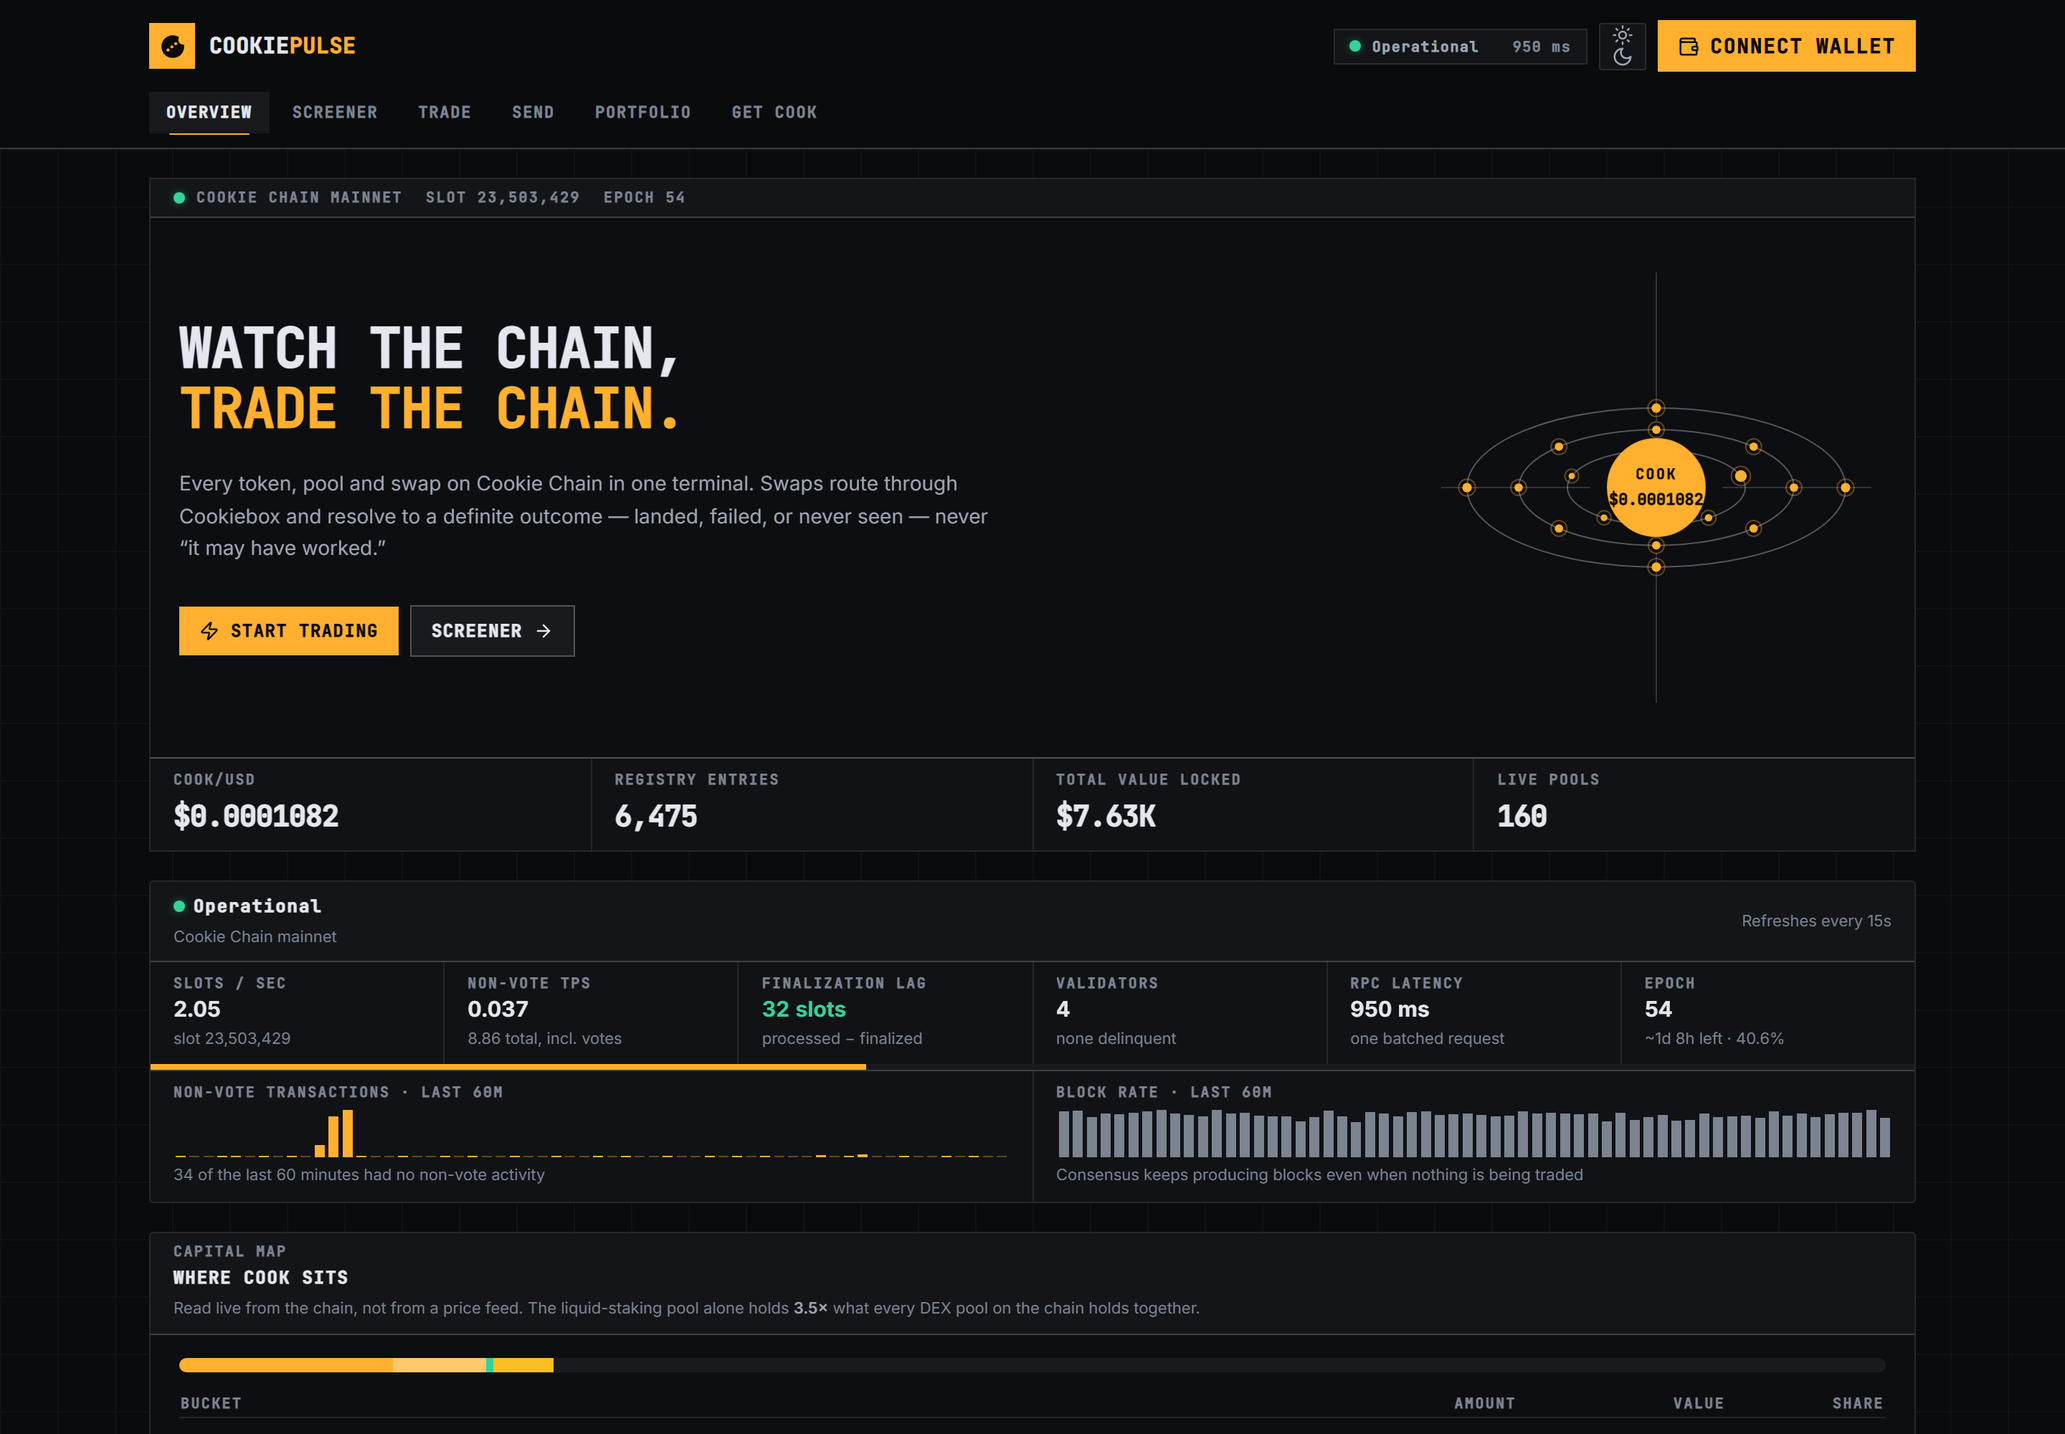
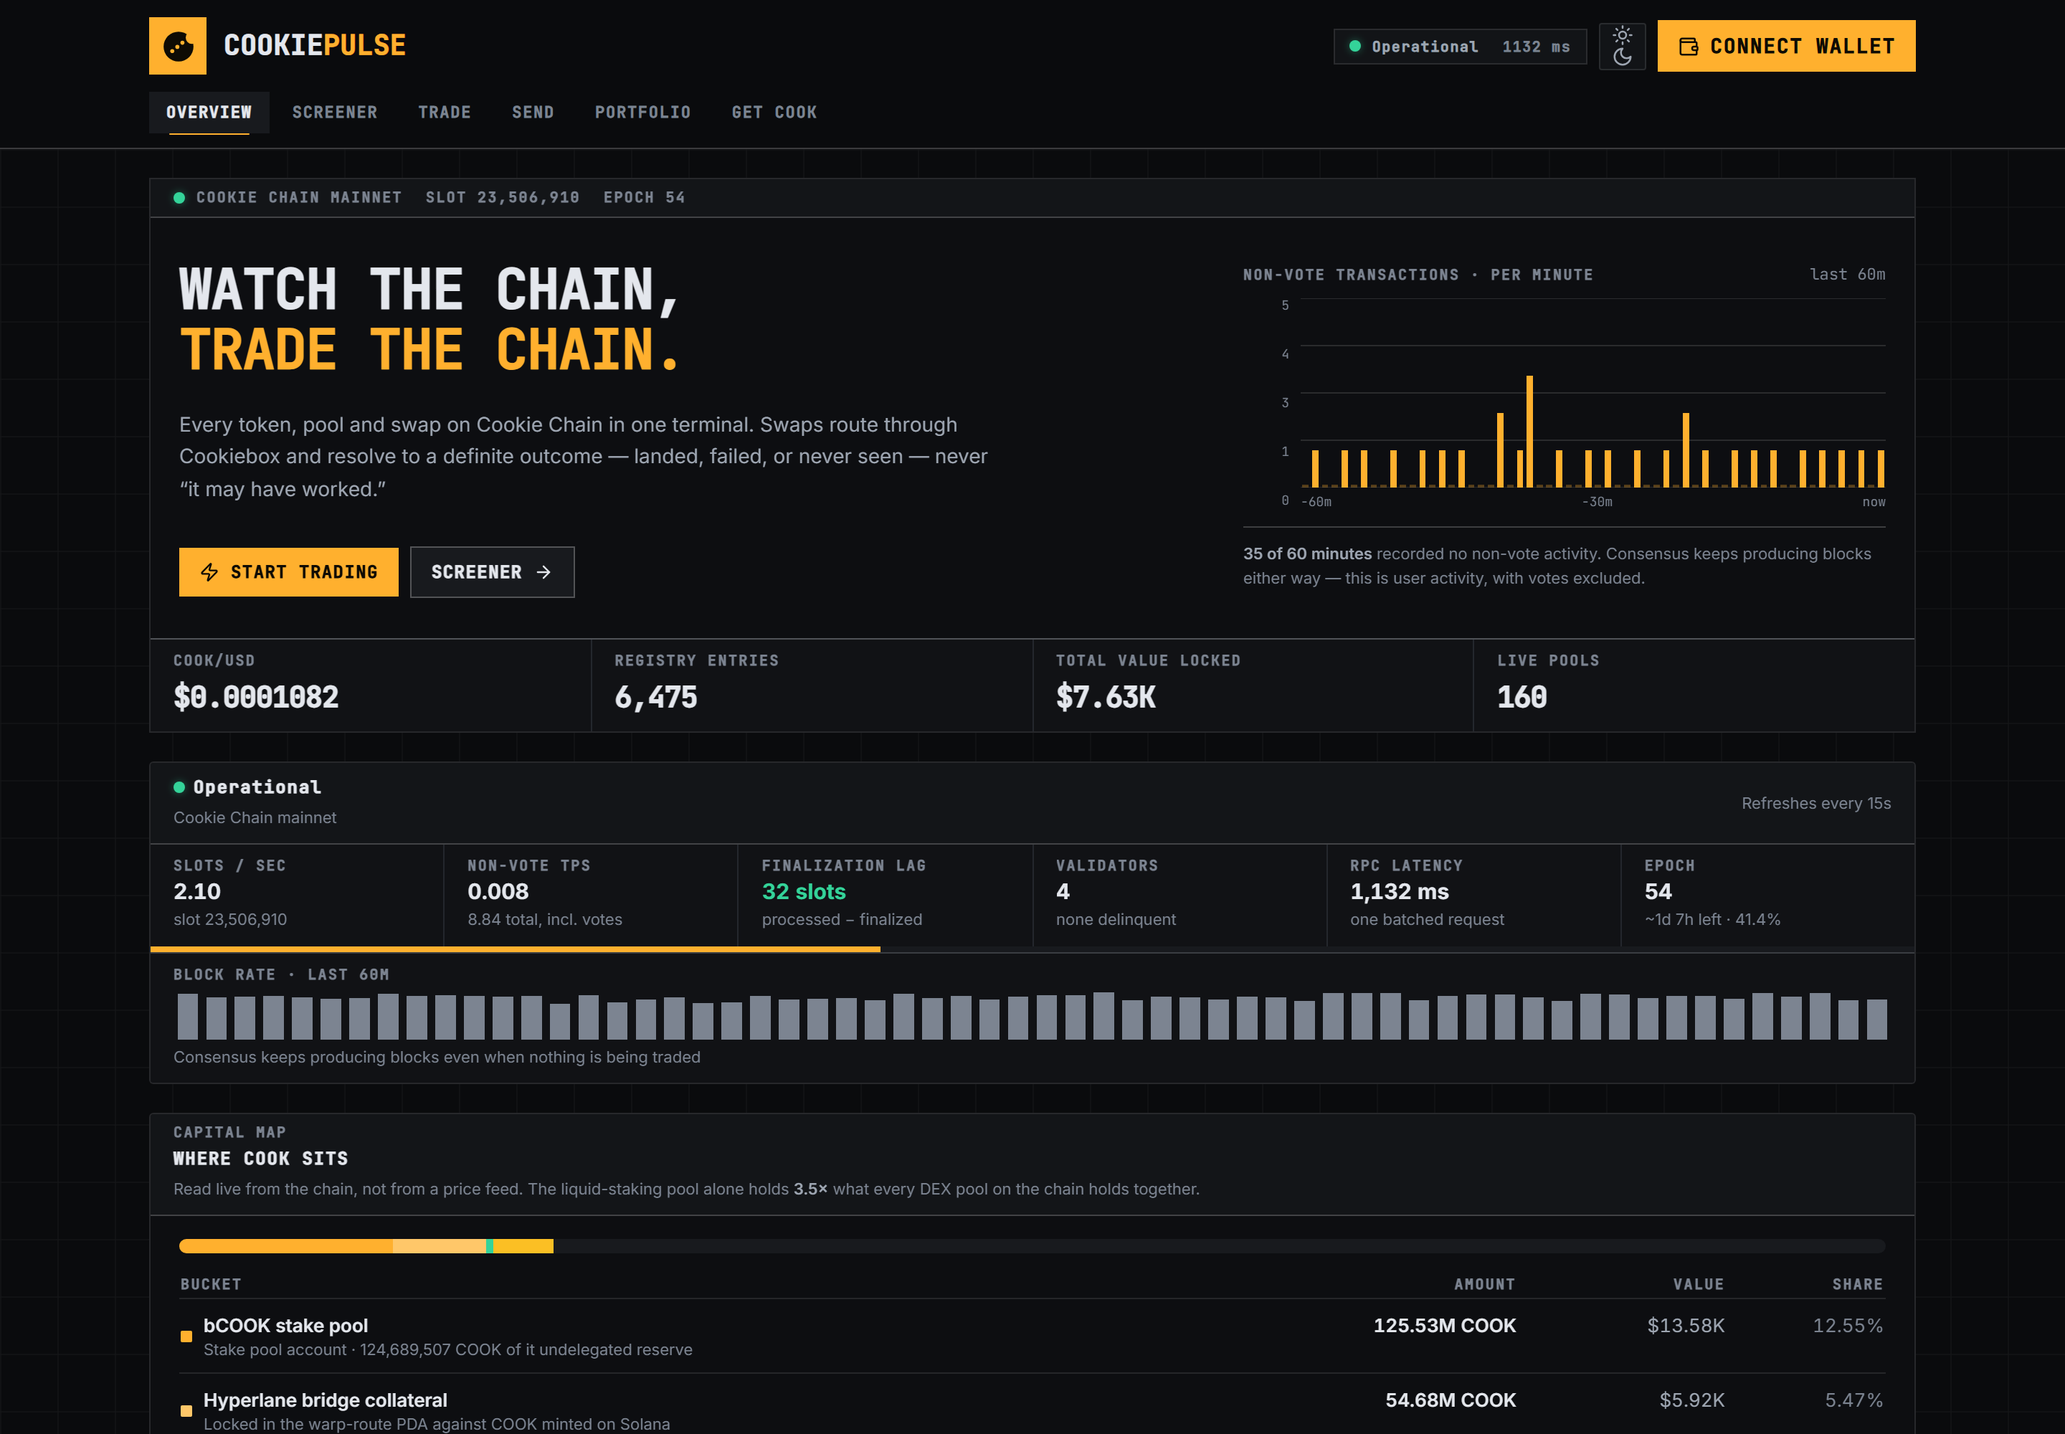
Replace the orbit with a real chart, and enlarge the mark
The orbit was the last element on the page that was drawn rather than
measured, which made it the weakest thing on a screen where everything else
is a reading.

The intent was a price chart. Cookiescan has no price history: its price
endpoint returns a single point and a change24h of 0, the markets feed
carries no time series, and every guessed path — /api/price/cook/history,
/api/candles, /api/ohlc — returns the site's HTML shell with a 200, which is
a catch-all and not data. I checked the bodies rather than the status codes,
because the status codes say 200 for a path I invented on the spot. Drawing
a price line would have meant inventing the series, so there is no price
line.

What is real is non-vote transactions per minute over the last hour, from
getRecentPerformanceSamples on the batched health request the strip already
makes. It was a 34px sparkline three screens down. As a full chart with a Y
axis, a time axis, gridlines and a pointer crosshair, it states the most
interesting true thing this app knows — the chain is almost entirely idle —
and states it where a judge lands, with axes they can check.

Three rules it holds to: a zero minute draws a baseline tick rather than
nothing (36 of 60 are exactly zero, and a chart that omits them looks
broken); nothing keys off isFetching, so the 15s poll never re-animates it;
and the crosshair is local state that triggers no fetch.

Axis labels are real text outside the stretched viewBox — the reason the
[…]

diff --git a/src/components/overview/ActivityChart.tsx b/src/components/overview/ActivityChart.tsx
@@ -1,0 +1,199 @@
+'use client';
+
+// The masthead chart.
+//
+// This replaced a decorative orbit diagram, which was the last element on the page that was drawn
+// rather than measured. The intent was a price chart — but Cookiescan has no price history. Its
+// price endpoint returns a single point and a `change24h` that reads 0, the markets feed carries no
+// time series, and every guessed path (`/api/price/cook/history`, `/api/candles`, `/api/ohlc`)
+// returns the site's HTML shell with a 200, which is a catch-all rather than data. Drawing a price
+// line here would mean inventing the series, so there is no price line.
+//
+// What IS a real time series is this: non-vote transactions per minute over the last hour, from
+// getRecentPerformanceSamples, on the same batched health request the strip above already makes.
+// It was previously a 34px sparkline buried three screens down. As a full chart it says the most
+// interesting true thing this app knows — that the chain is almost entirely idle — and it says it
+// with axes a judge can check.
+//
+// Three rules it holds to:
+//
+//   1. A zero minute draws a baseline tick, never nothing. 34 of the last 60 minutes are exactly
+//      zero; a bar chart that omits them looks broken, and emptiness is the measurement here.
+//   2. Nothing keys off `isFetching`. The series refreshes every 15s and the chart must not
+//      flicker, redraw or re-animate on a poll — only the bar geometry changes.
+//   3. The crosshair is pointer-driven and lives entirely in local state. It never triggers a
+//      fetch and never re-renders a parent.
+import { useCallback, useMemo, useRef, useState } from 'react';
+import { LABEL_MUTED, cn } from '@/components/ui/primitives';
+import type { PerfWindow } from '@/lib/types';
+
+/** Chart drawn in its own user space and stretched by the SVG box; only the axes are in real px. */
+const VB_W = 600;
+const VB_H = 200;
+/** Height a zero bucket still draws. The "we measured nothing" tick. */
+const ZERO_TICK = 3;
+const BAR_FILL = 0.66;
+/** Horizontal gridlines, as a fraction of the peak. */
+const GRID = [0, 0.25, 0.5, 0.75, 1];
+
+function niceCeil(n: number): number {
+  if (n <= 0) return 1;
+  const mag = Math.pow(10, Math.floor(Math.log10(n)));
+  const step = [1, 2, 2.5, 5, 10].find((s) => n <= s * mag) ?? 10;
+  return step * mag;
+}
+
+export function ActivityChart({ perf }: { perf: PerfWindow }) {
+  const svgRef = useRef<SVGSVGElement>(null);
+  const [hover, setHover] = useState<number | null>(null);
+
+  const values = perf.nonVotePerMinute;
+  const n = values.length;
+
+  const { peak, colWidth, barWidth } = useMemo(() => {
+    const max = Math.max(...values, 0);
+    return {
+      // Rounded up to a readable number so the axis labels are 0/2/4, never 0/1.75/3.5.
+      peak: niceCeil(max),
+      colWidth: VB_W / Math.max(n, 1),
+      barWidth: Math.max((VB_W / Math.max(n, 1)) * BAR_FILL, 1),
+    };
+  }, [values, n]);
+
+  // Pointer -> bucket index. Reads the SVG's own box rather than assuming the viewBox scale, so it
+  // stays correct at every breakpoint without a resize listener.
+  const onMove = useCallback(
+    (e: React.PointerEvent<SVGSVGElement>) => {
+      const el = svgRef.current;
+      if (!el || n === 0) return;
+      const box = el.getBoundingClientRect();
+      if (box.width === 0) return;
+      const frac = (e.clientX - box.left) / box.width;
+      const i = Math.floor(frac * n);
+      setHover(i >= 0 && i < n ? i : null);
+    },
+    [n],
+  );
+
+  if (n === 0) return null;
+
+  const active = hover === null ? null : values[hover];
+  const minutesAgo = hover === null ? null : n - hover;
+
+  return (
+    <div className="min-w-0">
+      {/* Readout. Fixed height and tabular, so moving the pointer across the chart cannot reflow
+          anything around it — the single most common defect in hand-built chart tooltips. */}
+      <div className="mb-2 flex items-baseline justify-between gap-3">
+        <span className={LABEL_MUTED}>Non-vote transactions &middot; per minute</span>
+        <span className="font-mono text-[11px] tabular-nums text-ink2">
+          {hover === null ? (
+            <span className="text-muted">last {perf.minutes}m</span>
+          ) : (
+            <>
+              <span className="text-muted">{minutesAgo}m ago</span>{' '}
+              <span className={cn('font-bold', active ? 'text-accent' : 'text-muted')}>
+                {active}
+              </span>
+            </>
+          )}
+        </span>
+      </div>
+
+      <div className="flex gap-2">
+        {/* Y axis. Real text outside the stretched viewBox, so the labels are never distorted by
+            `preserveAspectRatio="none"` — the reason the bars can be stretched at all. */}
+        <div
+          className="flex w-8 shrink-0 flex-col justify-between py-px text-right font-mono text-[9px] tabular-nums leading-none text-muted"
+          aria-hidden="true"
+        >
+          {[...GRID].reverse().map((g) => (
+            <span key={g}>{Math.round(peak * g)}</span>
+          ))}
+        </div>
+
+        <div className="min-w-0 flex-1">
+          <svg
+            ref={svgRef}
+            role="img"
+            aria-label={`Non-vote transactions per minute over the last ${perf.minutes} minutes. Peak ${Math.max(...values)}. ${perf.zeroActivityMinutes} of ${perf.minutes} minutes recorded none.`}
+            viewBox={`0 0 ${VB_W} ${VB_H}`}
+            preserveAspectRatio="none"
+            className="h-[132px] w-full touch-none"
+            shapeRendering="crispEdges"
+            onPointerMove={onMove}
+            onPointerLeave={() => setHover(null)}
+          >
+            {/* Graticule. Drawn first, under everything. */}
+            {GRID.map((g) => (
+              <line
+                key={g}
+                x1={0}
+                x2={VB_W}
+                y1={VB_H - g * VB_H}
+                y2={VB_H - g * VB_H}
+                stroke="rgb(var(--hairline) / 0.12)"
+                strokeWidth={1}
+                vectorEffect="non-scaling-stroke"
+              />
+            ))}
+
+            {values.map((v, i) => {
+              const scaled = peak > 0 ? (v / peak) * (VB_H - ZERO_TICK) : 0;
+              const h = v > 0 ? Math.max(scaled, ZERO_TICK + 1) : ZERO_TICK;
+              return (
+                <rect
+                  key={i}
+                  x={i * colWidth + (colWidth - barWidth) / 2}
+                  y={VB_H - h}
+                  width={barWidth}
+                  height={h}
+                  className={
+                    hover === i
+                      ? 'fill-ink'
+                      : v > 0
+                        ? 'fill-accent'
+                        : 'fill-accent/30'
+                  }
+                />
+              );
+            })}
+
+            {/* Crosshair. Non-scaling stroke so it stays 1px however the box is stretched. */}
+            {hover !== null ? (
+              <line
+                x1={hover * colWidth + colWidth / 2}
+                x2={hover * colWidth + colWidth / 2}
+                y1={0}
+                y2={VB_H}
+                stroke="rgb(var(--ink) / 0.45)"
+                strokeWidth={1}
+                vectorEffect="non-scaling-stroke"
+              />
+            ) : null}
+          </svg>
+
+          {/* X axis. Oldest at the left, so the series reads left to right like every other chart. */}
+          <div
+            className="mt-1.5 flex justify-between font-mono text-[9px] tabular-nums leading-none text-muted"
+            aria-hidden="true"
+          >
+            <span>-{perf.minutes}m</span>
+            <span>-{Math.round(perf.minutes / 2)}m</span>
+            <span>now</span>
+          </div>
+        </div>
+      </div>
+
+      {/* The finding, stated. Computed from the series, never assumed — on a chain this quiet it is
+          usually most of the window, and saying so is what stops the chart reading as broken. */}
+      <p className="mt-3 border-t border-hairline/20 pt-2.5 text-[11px] leading-relaxed text-muted">
+        <strong className="font-semibold text-ink2">
+          {perf.zeroActivityMinutes} of {perf.minutes} minutes
+        </strong>{' '}
+        recorded no non-vote activity. Consensus keeps producing blocks either way &mdash; this is
+        user activity, with votes excluded.
+      </p>
+    </div>
+  );
+}

diff --git a/src/components/overview/Hero.tsx b/src/components/overview/Hero.tsx
@@ -28,7 +28,7 @@ import { useChainHealth } from "@/hooks/useChainHealth";
 import { COOK_SYMBOL } from "@/lib/config";
 import { compact, formatUsd } from "@/lib/format";
 import { CountUp } from "@/components/motion/CountUp";
-import { OrbitSystem } from "./OrbitSystem";
+import { ActivityChart } from "./ActivityChart";
 import { LABEL_MUTED, cn, Skeleton, StatusDot } from '@/components/ui/primitives';
 
 // Module-scoped, as useCountUp requires: an inline arrow is a fresh prop identity on every render,
@@ -95,7 +95,7 @@ export function Hero() {
       </div>
 
       {/* ── 2. billing ────────────────────────────────────────────────────────────────────── */}
-      <div className="grid items-center gap-6 px-3 py-6 sm:px-5 sm:py-7 lg:grid-cols-[minmax(0,1fr)_minmax(0,20rem)] lg:gap-8">
+      <div className="grid items-center gap-6 px-3 py-6 sm:px-5 sm:py-7 lg:grid-cols-[minmax(0,1fr)_minmax(0,28rem)] lg:gap-10">
         <div className="min-w-0 max-w-2xl">
           {/* Mono, uppercase, at roughly two thirds of the old size. It still reads as the
               headline because nothing else on the page is this large — it no longer needs a
@@ -141,12 +141,18 @@ export function Hero() {
           </div>
         </div>
 
-        {/* The scope. Desktop only: at 390x844 the masthead measured 893px — taller than the
-            viewport — with the diagram cut in half by the fold, pushing the first real data below
-            it. On a phone the tape underneath is the better use of that screen. */}
-        <div data-enter style={step(4)} className="hidden min-w-0 lg:block">
-          <OrbitSystem />
-        </div>
+        {/* The chart. This slot held a decorative orbit diagram — the last thing on the page
+            that was drawn rather than measured. A price chart was the intent, but Cookiescan
+            publishes no price history (see ActivityChart), so this is the real series instead.
+
+            Desktop only: at 390x844 the masthead measured 893px — taller than the viewport —
+            with the old diagram cut in half by the fold. On a phone the tape underneath is the
+            better use of that screen, and the same series is in the strip below. */}
+        {health?.perf && health.perf.nonVotePerMinute.length > 0 ? (
+          <div data-enter style={step(4)} className="hidden min-w-0 lg:block">
+            <ActivityChart perf={health.perf} />
+          </div>
+        ) : null}
       </div>
 
       {/* ── 3. tape ───────────────────────────────────────────────────────────────────────── */}

diff --git a/src/components/overview/HealthStrip.tsx b/src/components/overview/HealthStrip.tsx
@@ -153,28 +153,11 @@ function Metrics({ data }: { data: ChainHealth }) {
       )}
 
       {hasWindow ? (
-        <div className="grid gap-px border-t border-hairline/10 bg-rule sm:grid-cols-2">
-          <div className={CELL}>
-            <p className={cn('truncate', LABEL_MUTED)}>
-              Non-vote transactions · last {perf.minutes}m
-            </p>
-            <div className="mt-1.5">
-              <Sparkline
-                values={perf.nonVotePerMinute}
-                ariaLabel={`Non-vote transactions per minute over the last ${perf.minutes} minutes`}
-                formatValue={(v, i) =>
-                  `${perf.minutes - i}m ago: ${v} non-vote ${v === 1 ? 'transaction' : 'transactions'}`
-                }
-                tone="accent"
-              />
-            </div>
-            {/* The count is computed from the series, never assumed — on a chain this quiet it is
-                usually most of the window, and stating it is what stops the chart reading as broken. */}
-            <p className="mt-1 truncate text-[11px] text-muted">
-              {perf.zeroActivityMinutes} of the last {perf.minutes} minutes had no non-vote activity
-            </p>
-          </div>
-
+        // One cell, not two. The non-vote series that used to sit on the left is now the masthead
+        // chart at the top of this same screen, with axes and a crosshair; keeping a 34px copy of
+        // it here meant the landing page showed one series twice, which is the kind of redundancy
+        // that reads as padding. Block rate stays, because nothing else plots it.
+        <div className="grid gap-px border-t border-hairline/10 bg-rule">
           <div className={CELL}>
             <p className={cn('truncate', LABEL_MUTED)}>
               Block rate · last {perf.minutes}m

diff --git a/src/components/Header.tsx b/src/components/Header.tsx
@@ -123,16 +123,16 @@ export function Header() {
     >
       <div className="mx-auto w-full max-w-[1280px] px-3 sm:px-6">
         <div className="flex h-16 items-center justify-between gap-2">
-          <Link href="/" className="group flex shrink-0 items-center gap-2.5">
+          <Link href="/" className="group flex shrink-0 items-center gap-3">
             {/* The tile no longer rotates. A logo that spins on hover is a decoration a designer
                 would have cut — it says nothing about the product and it is the first thing on the
                 page. What is left is a 2% scale, which reads as "this is a link". */}
-            <span className="accent-gradient flex h-8 w-8 items-center justify-center text-accent-ink transition-transform duration-[220ms] ease-[cubic-bezier(.2,.7,.3,1)] group-hover:scale-[1.02] group-active:scale-[.98]">
-              <Logo size={19} />
+            <span className="accent-gradient flex h-10 w-10 items-center justify-center text-accent-ink transition-transform duration-[220ms] ease-[cubic-bezier(.2,.7,.3,1)] group-hover:scale-[1.02] group-active:scale-[.98]">
+              <Logo size={25} />
             </span>
             {/* The wordmark gets nothing: a travelling sheen on background-clip:text repaints every
                 frame, inside a sticky backdrop-filtered bar, permanently, in peripheral vision. */}
-            <span className="font-mono text-[15px] font-bold uppercase tracking-[0.02em]">
+            <span className="font-mono text-[19px] font-bold uppercase tracking-[0.01em]">
               Cookie<span className="accent-text">Pulse</span>
             </span>
           </Link>
